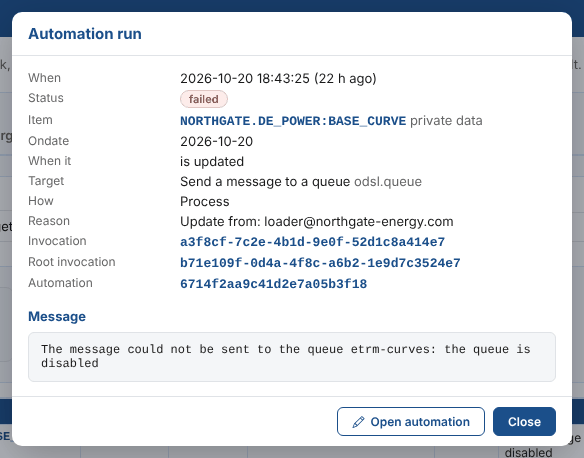
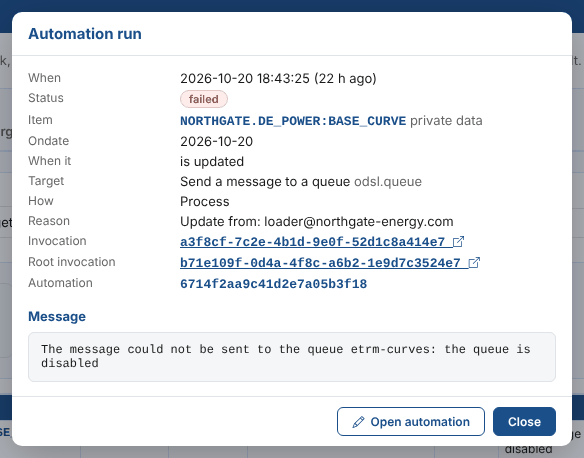
New automation feature

diff --git a/docs/extensions/automations/04-monitoring.md b/docs/extensions/automations/04-monitoring.md
@@ -103,9 +103,28 @@ To see the runs of one automation, select the clock button on its row in the Aut
 
 ### Reading a run
 
-Select a row to see the whole log entry, including the reason (who or what changed the item), the invocation ids (to find the request in the platform's logs) and the automation id. **Open automation** opens it in the editor.
+Select a row to see the whole log entry, including the reason (who or what changed the item), the invocation ids and the automation id. **Open automation** opens it in the editor.
 
 ![A failed run](/img/extensions/automations/log-entry.png)
+
+### Invocations
+
+The **Invocation** is the request or process run that triggered the automation, and the **Root invocation** the one that started the whole chain (for example the scheduled process whose save triggered it). Select either id to see what it belongs to:
+
+| It belongs to | What you see |
+|-|-|
+| A process execution | The process, its status, trigger, reason, start and end times (with how long it took), message, phases with their logs, errors, warnings and the log. **Started by** links to the invocation that started the process, when there is one |
+| An API call | Each call of that request: when, the method and service, the item and query parameters, the HTTP status, how long it took, the response size, and who made it with which application |
+
+Both are looked up, so an id can show a process execution and the API calls it made. **Back to the run** returns to the log entry.
+
+![The process execution behind a run](/img/extensions/automations/invocation-process.png)
+
+![The API call that saved the curve and triggered the run](/img/extensions/automations/invocation-api.png)
+
+:::note
+Process executions and API call records can be removed by housekeeping, and runs in another environment are not shown. When an id no longer leads anywhere, the dialog says so.
+:::
 
 ---
 
